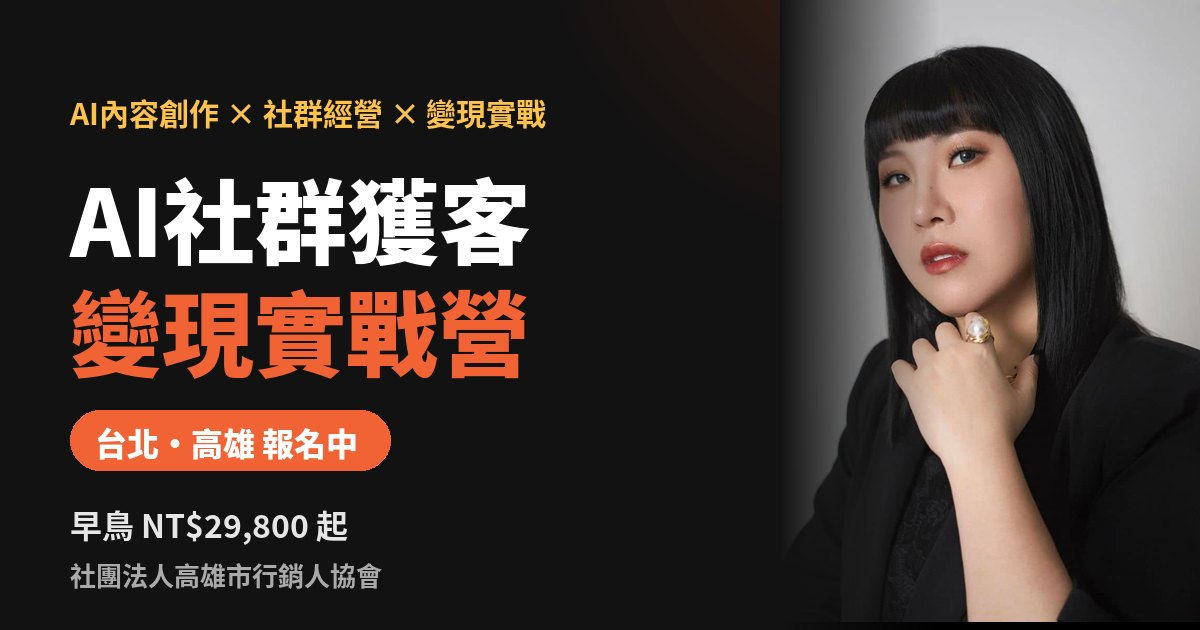
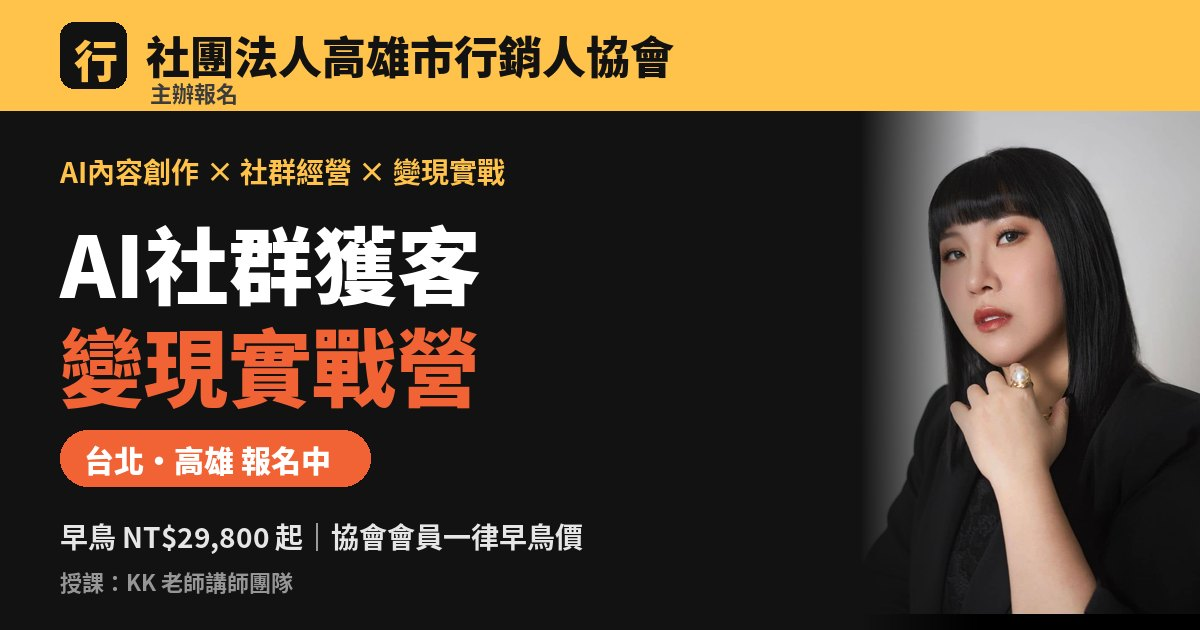
強化協會品牌：導覽列、首屏主辦標示與主辦單位卡、分享預覽圖；Grok 費用註明以官方公告為準
Claude-Session: https://claude.ai/code/session_01BkVFyem5AEymxAgnAVNjba

diff --git a/ai/index.html b/ai/index.html
@@ -3,7 +3,7 @@
 <head>
 <meta charset="utf-8">
 <meta name="viewport" content="width=device-width,initial-scale=1,viewport-fit=cover">
-<title>AI社群獲客變現實戰營｜台北・高雄報名｜社團法人高雄市行銷人協會</title>
+<title>社團法人高雄市行銷人協會｜AI社群獲客變現實戰營・台北／高雄報名</title>
 <meta name="description" content="兩天建立 AI 內容團隊，接上商品與變現通路。KK 老師講師團隊實戰營，台北場報名中，高雄場開放先登記。">
 <meta property="og:title" content="AI社群獲客變現實戰營｜台北・高雄報名">
 <meta property="og:description" content="AI內容創作 × 社群經營 × 變現實戰。兩天建立 AI 內容團隊，接上商品與變現通路。">
@@ -296,6 +296,24 @@ footer.site .copy{border-top:1px solid #222;margin-top:28px;padding-top:18px;fon
 .hero-visual figcaption{position:absolute;left:14px;bottom:14px;background:rgba(18,18,18,.82);color:#fff;font-size:13px;font-weight:700;padding:6px 12px;border-radius:999px;border:1px solid rgba(255,255,255,.18)}
 @media(max-width:959px){.hero-visual figure{max-width:260px}}
 .vlink{display:inline-block;font-size:13px;color:var(--accent-dk);margin-top:6px;font-weight:700;text-decoration:none}.vlink:hover{text-decoration:underline}.video:focus-visible{outline:3px solid var(--accent);outline-offset:3px}
+
+/* ===== 協會品牌強化 ===== */
+.brand{flex-direction:row;align-items:center;gap:10px}
+.brand > span:last-child{display:flex;flex-direction:column;line-height:1.25}
+.brand b{font-size:15px}
+.brand-mark{flex:none;width:34px;height:34px;border-radius:9px;background:var(--gold);color:var(--ink);font-weight:900;font-size:18px;display:grid;place-items:center}
+@media(max-width:420px){.brand b{font-size:13px}.brand small{font-size:10px}}
+.org-bar{display:inline-flex;align-items:center;gap:8px;font-size:15px;font-weight:900;color:var(--ink);background:var(--gold);padding:7px 16px;border-radius:8px;margin-bottom:16px;letter-spacing:.06em}
+.org-card{max-width:400px;margin:0 auto;background:rgba(255,255,255,.06);border:1px solid rgba(255,194,75,.45);border-radius:20px;padding:26px;color:#fff;box-shadow:0 24px 60px rgba(0,0,0,.4)}
+.org-mark{width:84px;height:84px;border-radius:18px;background:var(--gold);color:var(--ink);display:flex;flex-direction:column;align-items:center;justify-content:center;font-weight:900;line-height:1.2;font-size:15px;margin-bottom:16px}
+.org-card small{display:block;color:var(--gold);font-weight:700;letter-spacing:.12em;font-size:13px}
+.org-card b{display:block;font-size:22px;font-weight:900;margin:2px 0 12px}
+.org-card ul{list-style:none;font-size:15px;color:#ddd}
+.org-card li{padding:6px 0 6px 22px;position:relative;border-top:1px solid rgba(255,255,255,.1)}
+.org-card li::before{content:"✓";position:absolute;left:0;color:var(--gold);font-weight:900}
+.org-teach{margin-top:12px;font-size:13px;color:#aaa}
+.org-line{display:inline-block;margin-top:12px;font-size:14px;font-weight:700;color:var(--gold);text-decoration:none;border-bottom:1px solid currentColor}
+@media(max-width:959px){.org-card{max-width:none}}
 </style>
 <script>
 /* ===== 可編輯設定：場次、表單後端 =====
@@ -319,7 +337,7 @@ window.COURSE = {
 
 <nav class="nav" aria-label="主選單">
   <div class="wrap">
-    <a class="brand" href="#top"><b>高雄市行銷人協會</b><small>AI社群獲客變現實戰營</small></a>
+    <a class="brand" href="../"><span class="brand-mark">行</span><span><b>社團法人高雄市行銷人協會</b><small>AI社群獲客變現實戰營｜主辦報名</small></span></a>
     <ul>
       <li><a href="#abilities">五大能力</a></li>
       <li><a href="#outline">課程大綱</a></li>
@@ -334,6 +352,7 @@ window.COURSE = {
 <header class="hero" id="top">
   <div class="wrap hero-grid">
     <div>
+      <p class="org-bar">社團法人高雄市行銷人協會　主辦</p>
       <div class="tag"><span class="chip hot">台北場報名中</span><span class="chip">高雄場報名中</span><span class="chip">早鳥優惠</span><span class="chip">2 天實戰</span></div>
       <p class="tagline">AI內容創作 × 社群經營 × 變現實戰</p>
       <h1>AI社群獲客<br><em>變現實戰營</em></h1>
@@ -348,9 +367,20 @@ window.COURSE = {
         <a class="btn" href="#signup">我要報名</a>
         <a class="btn ghost" href="#pricing">看場次與日期</a>
       </div>
-      <p class="note">報名單位：社團法人高雄市行銷人協會　｜　協會會員一律早鳥價</p>
+      <p class="note">協會會員一律早鳥價｜授課：KK 老師講師團隊</p>
     </div>
-    <div class="hero-visual"><figure><img src="../static/teacher-kk.jpg" alt="KK 老師" width="810" height="1200"><figcaption>KK 老師｜電商直播培訓教母</figcaption></figure></div>
+    <div class="hero-visual"><div class="org-card">
+      <div class="org-mark"><span>高雄市</span><span>行銷人協會</span></div>
+      <small>主辦單位</small>
+      <b>社團法人高雄市行銷人協會</b>
+      <ul>
+        <li>報名、繳費、發票與課務聯繫，由協會統一服務</li>
+        <li>協會會員報名，一律早鳥價</li>
+        <li>台北場・高雄場同步招生</li>
+      </ul>
+      <p class="org-teach">授課｜KK 老師講師團隊</p>
+      <a class="org-line" href="https://line.me/R/ti/p/%40bin1641t" target="_blank" rel="noopener">協會 LINE 官方帳號 @bin1641t</a>
+    </div></div>
   </div>
 </header>
 
@@ -415,7 +445,7 @@ window.COURSE = {
       </article>
     </div>
     <h3 style="margin-top:40px">課程會用到的 AI 工具</h3>
-    <p class="fine" style="margin-top:6px">＊Grok 需使用付費版，請於上課前自行訂閱一個月（約 US$20，費用不含在學費內）。</p>
+    <p class="fine" style="margin-top:6px">＊Grok 需使用付費版，請於上課前自行訂閱一個月（約 US$20，實際金額以官方公告為準，費用不含在學費內）。</p>
     <div class="tools" style="margin-top:12px"><i>ChatGPT</i><i>Gemini</i><i>Grok</i><i>開拍</i><i>CapCut</i><i>Canva</i><i>Gamma</i><i>Suno</i></div>
     <div class="cta-row" style="justify-content:center"><a class="btn" href="#signup">我要報名</a></div>
   </div>
@@ -502,7 +532,7 @@ window.COURSE = {
           <li>團體報名（2 人以上）：不論何時報名，一律晚鳥價</li>
           <li>每梯次名額上限 50 位</li>
           <li>兩天課程皆含午餐</li>
-          <li>學費不含 Grok 付費版訂閱（約 US$20／月，請於課前自行訂閱一個月）</li>
+          <li>學費不含 Grok 付費版訂閱（約 US$20／月，實際金額以官方公告為準，請於課前自行訂閱一個月）</li>
         </ul>
         <a class="btn block" href="#signup">立即報名</a>
       </div>

diff --git a/live/index.html b/live/index.html
@@ -3,7 +3,7 @@
 <head>
 <meta charset="utf-8">
 <meta name="viewport" content="width=device-width,initial-scale=1,viewport-fit=cover">
-<title>KK教母直播實戰二日課｜台北・高雄報名｜社團法人高雄市行銷人協會</title>
+<title>社團法人高雄市行銷人協會｜KK教母直播實戰二日課・台北／高雄報名</title>
 <meta name="description" content="從選品、開播到成交，接上商品與供應鏈。KK 老師講師團隊兩天直播實戰課，台北場報名中，高雄場開放先登記。">
 <meta property="og:title" content="KK教母直播實戰二日課｜台北・高雄報名">
 <meta property="og:description" content="直播企劃 × 鏡頭互動 × 導購實戰。兩天從選品、開播到成交。">
@@ -296,6 +296,24 @@ footer.site .copy{border-top:1px solid #222;margin-top:28px;padding-top:18px;fon
 .hero-visual figcaption{position:absolute;left:14px;bottom:14px;background:rgba(18,18,18,.82);color:#fff;font-size:13px;font-weight:700;padding:6px 12px;border-radius:999px;border:1px solid rgba(255,255,255,.18)}
 @media(max-width:959px){.hero-visual figure{max-width:260px}}
 .vlink{display:inline-block;font-size:13px;color:var(--accent-dk);margin-top:6px;font-weight:700;text-decoration:none}.vlink:hover{text-decoration:underline}.video:focus-visible{outline:3px solid var(--accent);outline-offset:3px}
+
+/* ===== 協會品牌強化 ===== */
+.brand{flex-direction:row;align-items:center;gap:10px}
+.brand > span:last-child{display:flex;flex-direction:column;line-height:1.25}
+.brand b{font-size:15px}
+.brand-mark{flex:none;width:34px;height:34px;border-radius:9px;background:var(--gold);color:var(--ink);font-weight:900;font-size:18px;display:grid;place-items:center}
+@media(max-width:420px){.brand b{font-size:13px}.brand small{font-size:10px}}
+.org-bar{display:inline-flex;align-items:center;gap:8px;font-size:15px;font-weight:900;color:var(--ink);background:var(--gold);padding:7px 16px;border-radius:8px;margin-bottom:16px;letter-spacing:.06em}
+.org-card{max-width:400px;margin:0 auto;background:rgba(255,255,255,.06);border:1px solid rgba(255,194,75,.45);border-radius:20px;padding:26px;color:#fff;box-shadow:0 24px 60px rgba(0,0,0,.4)}
+.org-mark{width:84px;height:84px;border-radius:18px;background:var(--gold);color:var(--ink);display:flex;flex-direction:column;align-items:center;justify-content:center;font-weight:900;line-height:1.2;font-size:15px;margin-bottom:16px}
+.org-card small{display:block;color:var(--gold);font-weight:700;letter-spacing:.12em;font-size:13px}
+.org-card b{display:block;font-size:22px;font-weight:900;margin:2px 0 12px}
+.org-card ul{list-style:none;font-size:15px;color:#ddd}
+.org-card li{padding:6px 0 6px 22px;position:relative;border-top:1px solid rgba(255,255,255,.1)}
+.org-card li::before{content:"✓";position:absolute;left:0;color:var(--gold);font-weight:900}
+.org-teach{margin-top:12px;font-size:13px;color:#aaa}
+.org-line{display:inline-block;margin-top:12px;font-size:14px;font-weight:700;color:var(--gold);text-decoration:none;border-bottom:1px solid currentColor}
+@media(max-width:959px){.org-card{max-width:none}}
 </style>
 <script>
 /* ===== 可編輯設定：場次、表單後端 =====
@@ -318,7 +336,7 @@ window.COURSE = {
 
 <nav class="nav" aria-label="主選單">
   <div class="wrap">
-    <a class="brand" href="#top"><b>高雄市行銷人協會</b><small>KK教母直播實戰二日課</small></a>
+    <a class="brand" href="../"><span class="brand-mark">行</span><span><b>社團法人高雄市行銷人協會</b><small>KK教母直播實戰二日課｜主辦報名</small></span></a>
     <ul>
       <li><a href="#resources">商品與通路</a></li>
       <li><a href="#outline">課程大綱</a></li>
@@ -333,6 +351,7 @@ window.COURSE = {
 <header class="hero" id="top">
   <div class="wrap hero-grid">
     <div>
+      <p class="org-bar">社團法人高雄市行銷人協會　主辦</p>
       <div class="tag"><span class="chip hot">台北場報名中</span><span class="chip">高雄場報名中</span><span class="chip">早鳥優惠</span><span class="chip">2 天實戰</span></div>
       <p class="tagline">直播企劃 × 鏡頭互動 × 導購實戰</p>
       <h1>KK教母<br><em>直播實戰二日課</em></h1>
@@ -347,9 +366,20 @@ window.COURSE = {
         <a class="btn" href="#signup">我要報名</a>
         <a class="btn ghost" href="#pricing">看場次與日期</a>
       </div>
-      <p class="note">報名單位：社團法人高雄市行銷人協會　｜　協會會員一律早鳥價</p>
+      <p class="note">協會會員一律早鳥價｜授課：KK 老師講師團隊</p>
     </div>
-    <div class="hero-visual"><figure><img src="../static/teacher-kk.jpg" alt="KK 老師" width="810" height="1200"><figcaption>KK 老師｜電商直播培訓教母</figcaption></figure></div>
+    <div class="hero-visual"><div class="org-card">
+      <div class="org-mark"><span>高雄市</span><span>行銷人協會</span></div>
+      <small>主辦單位</small>
+      <b>社團法人高雄市行銷人協會</b>
+      <ul>
+        <li>報名、繳費、發票與課務聯繫，由協會統一服務</li>
+        <li>協會會員報名，一律早鳥價</li>
+        <li>台北場・高雄場同步招生</li>
+      </ul>
+      <p class="org-teach">授課｜KK 老師講師團隊</p>
+      <a class="org-line" href="https://line.me/R/ti/p/%40bin1641t" target="_blank" rel="noopener">協會 LINE 官方帳號 @bin1641t</a>
+    </div></div>
   </div>
 </header>
 

diff --git a/index.html b/index.html
@@ -3,9 +3,9 @@
 <head>
 <meta charset="utf-8">
 <meta name="viewport" content="width=device-width,initial-scale=1,viewport-fit=cover">
-<title>KK 老師實戰課程報名｜社團法人高雄市行銷人協會</title>
+<title>社團法人高雄市行銷人協會｜實戰課程報名</title>
 <meta name="description" content="AI社群獲客變現實戰營、KK教母直播實戰二日課，台北場與高雄場報名。">
-<meta property="og:title" content="KK 老師實戰課程報名｜高雄市行銷人協會">
+<meta property="og:title" content="社團法人高雄市行銷人協會｜實戰課程報名">
 <meta property="og:image" content="https://edjumptw.github.io/tma-kk-courses/static/og-live.jpg">
 <meta name="theme-color" content="#121212">
 <link rel="preconnect" href="https://fonts.googleapis.com"><link rel="preconnect" href="https://fonts.gstatic.com" crossorigin>
@@ -295,6 +295,24 @@ footer.site .copy{border-top:1px solid #222;margin-top:28px;padding-top:18px;fon
 @media(max-width:959px){.hero-visual figure{max-width:260px}}
 .vlink{display:inline-block;font-size:13px;color:var(--accent-dk);margin-top:6px;font-weight:700;text-decoration:none}.vlink:hover{text-decoration:underline}.video:focus-visible{outline:3px solid var(--accent);outline-offset:3px}
 
+/* ===== 協會品牌強化 ===== */
+.brand{flex-direction:row;align-items:center;gap:10px}
+.brand > span:last-child{display:flex;flex-direction:column;line-height:1.25}
+.brand b{font-size:15px}
+.brand-mark{flex:none;width:34px;height:34px;border-radius:9px;background:var(--gold);color:var(--ink);font-weight:900;font-size:18px;display:grid;place-items:center}
+@media(max-width:420px){.brand b{font-size:13px}.brand small{font-size:10px}}
+.org-bar{display:inline-flex;align-items:center;gap:8px;font-size:15px;font-weight:900;color:var(--ink);background:var(--gold);padding:7px 16px;border-radius:8px;margin-bottom:16px;letter-spacing:.06em}
+.org-card{max-width:400px;margin:0 auto;background:rgba(255,255,255,.06);border:1px solid rgba(255,194,75,.45);border-radius:20px;padding:26px;color:#fff;box-shadow:0 24px 60px rgba(0,0,0,.4)}
+.org-mark{width:84px;height:84px;border-radius:18px;background:var(--gold);color:var(--ink);display:flex;flex-direction:column;align-items:center;justify-content:center;font-weight:900;line-height:1.2;font-size:15px;margin-bottom:16px}
+.org-card small{display:block;color:var(--gold);font-weight:700;letter-spacing:.12em;font-size:13px}
+.org-card b{display:block;font-size:22px;font-weight:900;margin:2px 0 12px}
+.org-card ul{list-style:none;font-size:15px;color:#ddd}
+.org-card li{padding:6px 0 6px 22px;position:relative;border-top:1px solid rgba(255,255,255,.1)}
+.org-card li::before{content:"✓";position:absolute;left:0;color:var(--gold);font-weight:900}
+.org-teach{margin-top:12px;font-size:13px;color:#aaa}
+.org-line{display:inline-block;margin-top:12px;font-size:14px;font-weight:700;color:var(--gold);text-decoration:none;border-bottom:1px solid currentColor}
+@media(max-width:959px){.org-card{max-width:none}}
+
 .home-cards{display:grid;gap:18px;margin-top:32px}
 @media(min-width:860px){.home-cards{grid-template-columns:1fr 1fr}}
 .home-cards a{text-decoration:none;color:inherit}
@@ -304,11 +322,12 @@ footer.site .copy{border-top:1px solid #222;margin-top:28px;padding-top:18px;fon
 </style>
 </head>
 <body>
-<nav class="nav"><div class="wrap"><a class="brand" href="./"><b>高雄市行銷人協會</b><small>KK 老師實戰課程報名</small></a></div></nav>
+<nav class="nav"><div class="wrap"><a class="brand" href="./"><span class="brand-mark">行</span><span><b>社團法人高雄市行銷人協會</b><small>實戰課程報名</small></span></a></div></nav>
 <header class="hero"><div class="wrap">
   <div class="tag"><span class="chip hot">台北場・高雄場報名中</span><span class="chip">早鳥優惠</span></div>
-  <h1>KK 老師<br><em>實戰課程報名</em></h1>
-  <p class="sub">兩門兩天實戰課，台北場與高雄場都在這裡報名。協會會員一律早鳥價。</p>
+  <p class="org-bar">社團法人高雄市行銷人協會　主辦</p>
+  <h1>協會實戰課程<br><em>報名中</em></h1>
+  <p class="sub">高雄市行銷人協會邀請 KK 老師講師團隊開設兩門兩天實戰課，台北場與高雄場都在這裡報名。協會會員一律早鳥價。</p>
 </div></header>
 <section><div class="wrap">
   <div class="home-cards">

diff --git a/src/ai.html b/src/ai.html
@@ -3,7 +3,7 @@
 <head>
 <meta charset="utf-8">
 <meta name="viewport" content="width=device-width,initial-scale=1,viewport-fit=cover">
-<title>AI社群獲客變現實戰營｜台北・高雄報名｜社團法人高雄市行銷人協會</title>
+<title>社團法人高雄市行銷人協會｜AI社群獲客變現實戰營・台北／高雄報名</title>
 <meta name="description" content="兩天建立 AI 內容團隊，接上商品與變現通路。KK 老師講師團隊實戰營，台北場報名中，高雄場開放先登記。">
 <meta property="og:title" content="AI社群獲客變現實戰營｜台北・高雄報名">
 <meta property="og:description" content="AI內容創作 × 社群經營 × 變現實戰。兩天建立 AI 內容團隊，接上商品與變現通路。">
@@ -35,7 +35,7 @@ window.COURSE = {
 
 <nav class="nav" aria-label="主選單">
   <div class="wrap">
-    <a class="brand" href="#top"><b>高雄市行銷人協會</b><small>AI社群獲客變現實戰營</small></a>
+    <a class="brand" href="../"><span class="brand-mark">行</span><span><b>社團法人高雄市行銷人協會</b><small>AI社群獲客變現實戰營｜主辦報名</small></span></a>
     <ul>
       <li><a href="#abilities">五大能力</a></li>
       <li><a href="#outline">課程大綱</a></li>
@@ -50,6 +50,7 @@ window.COURSE = {
 <header class="hero" id="top">
   <div class="wrap hero-grid">
     <div>
+      <p class="org-bar">社團法人高雄市行銷人協會　主辦</p>
       <div class="tag"><span class="chip hot">台北場報名中</span><span class="chip">高雄場報名中</span><span class="chip">早鳥優惠</span><span class="chip">2 天實戰</span></div>
       <p class="tagline">AI內容創作 × 社群經營 × 變現實戰</p>
       <h1>AI社群獲客<br><em>變現實戰營</em></h1>
@@ -64,9 +65,20 @@ window.COURSE = {
         <a class="btn" href="#signup">我要報名</a>
         <a class="btn ghost" href="#pricing">看場次與日期</a>
       </div>
-      <p class="note">報名單位：社團法人高雄市行銷人協會　｜　協會會員一律早鳥價</p>
+      <p class="note">協會會員一律早鳥價｜授課：KK 老師講師團隊</p>
     </div>
-    <div class="hero-visual"><figure><img src="../static/teacher-kk.jpg" alt="KK 老師" width="810" height="1200"><figcaption>KK 老師｜電商直播培訓教母</figcaption></figure></div>
+    <div class="hero-visual"><div class="org-card">
+      <div class="org-mark"><span>高雄市</span><span>行銷人協會</span></div>
+      <small>主辦單位</small>
+      <b>社團法人高雄市行銷人協會</b>
+      <ul>
+        <li>報名、繳費、發票與課務聯繫，由協會統一服務</li>
+        <li>協會會員報名，一律早鳥價</li>
+        <li>台北場・高雄場同步招生</li>
+      </ul>
+      <p class="org-teach">授課｜KK 老師講師團隊</p>
+      <a class="org-line" href="https://line.me/R/ti/p/%40bin1641t" target="_blank" rel="noopener">協會 LINE 官方帳號 @bin1641t</a>
+    </div></div>
   </div>
 </header>
 
@@ -131,7 +143,7 @@ window.COURSE = {
       </article>
     </div>
     <h3 style="margin-top:40px">課程會用到的 AI 工具</h3>
-    <p class="fine" style="margin-top:6px">＊Grok 需使用付費版，請於上課前自行訂閱一個月（約 US$20，費用不含在學費內）。</p>
+    <p class="fine" style="margin-top:6px">＊Grok 需使用付費版，請於上課前自行訂閱一個月（約 US$20，實際金額以官方公告為準，費用不含在學費內）。</p>
     <div class="tools" style="margin-top:12px"><i>ChatGPT</i><i>Gemini</i><i>Grok</i><i>開拍</i><i>CapCut</i><i>Canva</i><i>Gamma</i><i>Suno</i></div>
     <div class="cta-row" style="justify-content:center"><a class="btn" href="#signup">我要報名</a></div>
   </div>
@@ -218,7 +230,7 @@ window.COURSE = {
           <li>團體報名（2 人以上）：不論何時報名，一律晚鳥價</li>
           <li>每梯次名額上限 50 位</li>
           <li>兩天課程皆含午餐</li>
-          <li>學費不含 Grok 付費版訂閱（約 US$20／月，請於課前自行訂閱一個月）</li>
+          <li>學費不含 Grok 付費版訂閱（約 US$20／月，實際金額以官方公告為準，請於課前自行訂閱一個月）</li>
         </ul>
         <a class="btn block" href="#signup">立即報名</a>
       </div>

diff --git a/src/live.html b/src/live.html
@@ -3,7 +3,7 @@
 <head>
 <meta charset="utf-8">
 <meta name="viewport" content="width=device-width,initial-scale=1,viewport-fit=cover">
-<title>KK教母直播實戰二日課｜台北・高雄報名｜社團法人高雄市行銷人協會</title>
+<title>社團法人高雄市行銷人協會｜KK教母直播實戰二日課・台北／高雄報名</title>
 <meta name="description" content="從選品、開播到成交，接上商品與供應鏈。KK 老師講師團隊兩天直播實戰課，台北場報名中，高雄場開放先登記。">
 <meta property="og:title" content="KK教母直播實戰二日課｜台北・高雄報名">
 <meta property="og:description" content="直播企劃 × 鏡頭互動 × 導購實戰。兩天從選品、開播到成交。">
@@ -34,7 +34,7 @@ window.COURSE = {
 
 <nav class="nav" aria-label="主選單">
   <div class="wrap">
-    <a class="brand" href="#top"><b>高雄市行銷人協會</b><small>KK教母直播實戰二日課</small></a>
+    <a class="brand" href="../"><span class="brand-mark">行</span><span><b>社團法人高雄市行銷人協會</b><small>KK教母直播實戰二日課｜主辦報名</small></span></a>
     <ul>
       <li><a href="#resources">商品與通路</a></li>
       <li><a href="#outline">課程大綱</a></li>
@@ -49,6 +49,7 @@ window.COURSE = {
 <header class="hero" id="top">
   <div class="wrap hero-grid">
     <div>
+      <p class="org-bar">社團法人高雄市行銷人協會　主辦</p>
       <div class="tag"><span class="chip hot">台北場報名中</span><span class="chip">高雄場報名中</span><span class="chip">早鳥優惠</span><span class="chip">2 天實戰</span></div>
       <p class="tagline">直播企劃 × 鏡頭互動 × 導購實戰</p>
       <h1>KK教母<br><em>直播實戰二日課</em></h1>
@@ -63,9 +64,20 @@ window.COURSE = {
         <a class="btn" href="#signup">我要報名</a>
         <a class="btn ghost" href="#pricing">看場次與日期</a>
       </div>
-      <p class="note">報名單位：社團法人高雄市行銷人協會　｜　協會會員一律早鳥價</p>
+      <p class="note">協會會員一律早鳥價｜授課：KK 老師講師團隊</p>
     </div>
-    <div class="hero-visual"><figure><img src="../static/teacher-kk.jpg" alt="KK 老師" width="810" height="1200"><figcaption>KK 老師｜電商直播培訓教母</figcaption></figure></div>
+    <div class="hero-visual"><div class="org-card">
+      <div class="org-mark"><span>高雄市</span><span>行銷人協會</span></div>
+      <small>主辦單位</small>
+      <b>社團法人高雄市行銷人協會</b>
+      <ul>
+        <li>報名、繳費、發票與課務聯繫，由協會統一服務</li>
+        <li>協會會員報名，一律早鳥價</li>
+        <li>台北場・高雄場同步招生</li>
+      </ul>
+      <p class="org-teach">授課｜KK 老師講師團隊</p>
+      <a class="org-line" href="https://line.me/R/ti/p/%40bin1641t" target="_blank" rel="noopener">協會 LINE 官方帳號 @bin1641t</a>
+    </div></div>
   </div>
 </header>
 

diff --git a/src/common.css b/src/common.css
@@ -282,3 +282,21 @@ footer.site .copy{border-top:1px solid #222;margin-top:28px;padding-top:18px;fon
 .hero-visual figcaption{position:absolute;left:14px;bottom:14px;background:rgba(18,18,18,.82);color:#fff;font-size:13px;font-weight:700;padding:6px 12px;border-radius:999px;border:1px solid rgba(255,255,255,.18)}
 @media(max-width:959px){.hero-visual figure{max-width:260px}}
 .vlink{display:inline-block;font-size:13px;color:var(--accent-dk);margin-top:6px;font-weight:700;text-decoration:none}.vlink:hover{text-decoration:underline}.video:focus-visible{outline:3px solid var(--accent);outline-offset:3px}
+
+/* ===== 協會品牌強化 ===== */
+.brand{flex-direction:row;align-items:center;gap:10px}
+.brand > span:last-child{display:flex;flex-direction:column;line-height:1.25}
+.brand b{font-size:15px}
+.brand-mark{flex:none;width:34px;height:34px;border-radius:9px;background:var(--gold);color:var(--ink);font-weight:900;font-size:18px;display:grid;place-items:center}
+@media(max-width:420px){.brand b{font-size:13px}.brand small{font-size:10px}}
+.org-bar{display:inline-flex;align-items:center;gap:8px;font-size:15px;font-weight:900;color:var(--ink);background:var(--gold);padding:7px 16px;border-radius:8px;margin-bottom:16px;letter-spacing:.06em}
+.org-card{max-width:400px;margin:0 auto;background:rgba(255,255,255,.06);border:1px solid rgba(255,194,75,.45);border-radius:20px;padding:26px;color:#fff;box-shadow:0 24px 60px rgba(0,0,0,.4)}
+.org-mark{width:84px;height:84px;border-radius:18px;background:var(--gold);color:var(--ink);display:flex;flex-direction:column;align-items:center;justify-content:center;font-weight:900;line-height:1.2;font-size:15px;margin-bottom:16px}
+.org-card small{display:block;color:var(--gold);font-weight:700;letter-spacing:.12em;font-size:13px}
+.org-card b{display:block;font-size:22px;font-weight:900;margin:2px 0 12px}
+.org-card ul{list-style:none;font-size:15px;color:#ddd}
+.org-card li{padding:6px 0 6px 22px;position:relative;border-top:1px solid rgba(255,255,255,.1)}
+.org-card li::before{content:"✓";position:absolute;left:0;color:var(--gold);font-weight:900}
+.org-teach{margin-top:12px;font-size:13px;color:#aaa}
+.org-line{display:inline-block;margin-top:12px;font-size:14px;font-weight:700;color:var(--gold);text-decoration:none;border-bottom:1px solid currentColor}
+@media(max-width:959px){.org-card{max-width:none}}

diff --git a/src/home.html b/src/home.html
@@ -3,9 +3,9 @@
 <head>
 <meta charset="utf-8">
 <meta name="viewport" content="width=device-width,initial-scale=1,viewport-fit=cover">
-<title>KK 老師實戰課程報名｜社團法人高雄市行銷人協會</title>
+<title>社團法人高雄市行銷人協會｜實戰課程報名</title>
 <meta name="description" content="AI社群獲客變現實戰營、KK教母直播實戰二日課，台北場與高雄場報名。">
-<meta property="og:title" content="KK 老師實戰課程報名｜高雄市行銷人協會">
+<meta property="og:title" content="社團法人高雄市行銷人協會｜實戰課程報名">
 <meta property="og:image" content="https://edjumptw.github.io/tma-kk-courses/static/og-live.jpg">
 <meta name="theme-color" content="#121212">
 <link rel="preconnect" href="https://fonts.googleapis.com"><link rel="preconnect" href="https://fonts.gstatic.com" crossorigin>
@@ -20,11 +20,12 @@
 </style>
 </head>
 <body>
-<nav class="nav"><div class="wrap"><a class="brand" href="./"><b>高雄市行銷人協會</b><small>KK 老師實戰課程報名</small></a></div></nav>
+<nav class="nav"><div class="wrap"><a class="brand" href="./"><span class="brand-mark">行</span><span><b>社團法人高雄市行銷人協會</b><small>實戰課程報名</small></span></a></div></nav>
 <header class="hero"><div class="wrap">
   <div class="tag"><span class="chip hot">台北場・高雄場報名中</span><span class="chip">早鳥優惠</span></div>
-  <h1>KK 老師<br><em>實戰課程報名</em></h1>
-  <p class="sub">兩門兩天實戰課，台北場與高雄場都在這裡報名。協會會員一律早鳥價。</p>
+  <p class="org-bar">社團法人高雄市行銷人協會　主辦</p>
+  <h1>協會實戰課程<br><em>報名中</em></h1>
+  <p class="sub">高雄市行銷人協會邀請 KK 老師講師團隊開設兩門兩天實戰課，台北場與高雄場都在這裡報名。協會會員一律早鳥價。</p>
 </div></header>
 <section><div class="wrap">
   <div class="home-cards">
